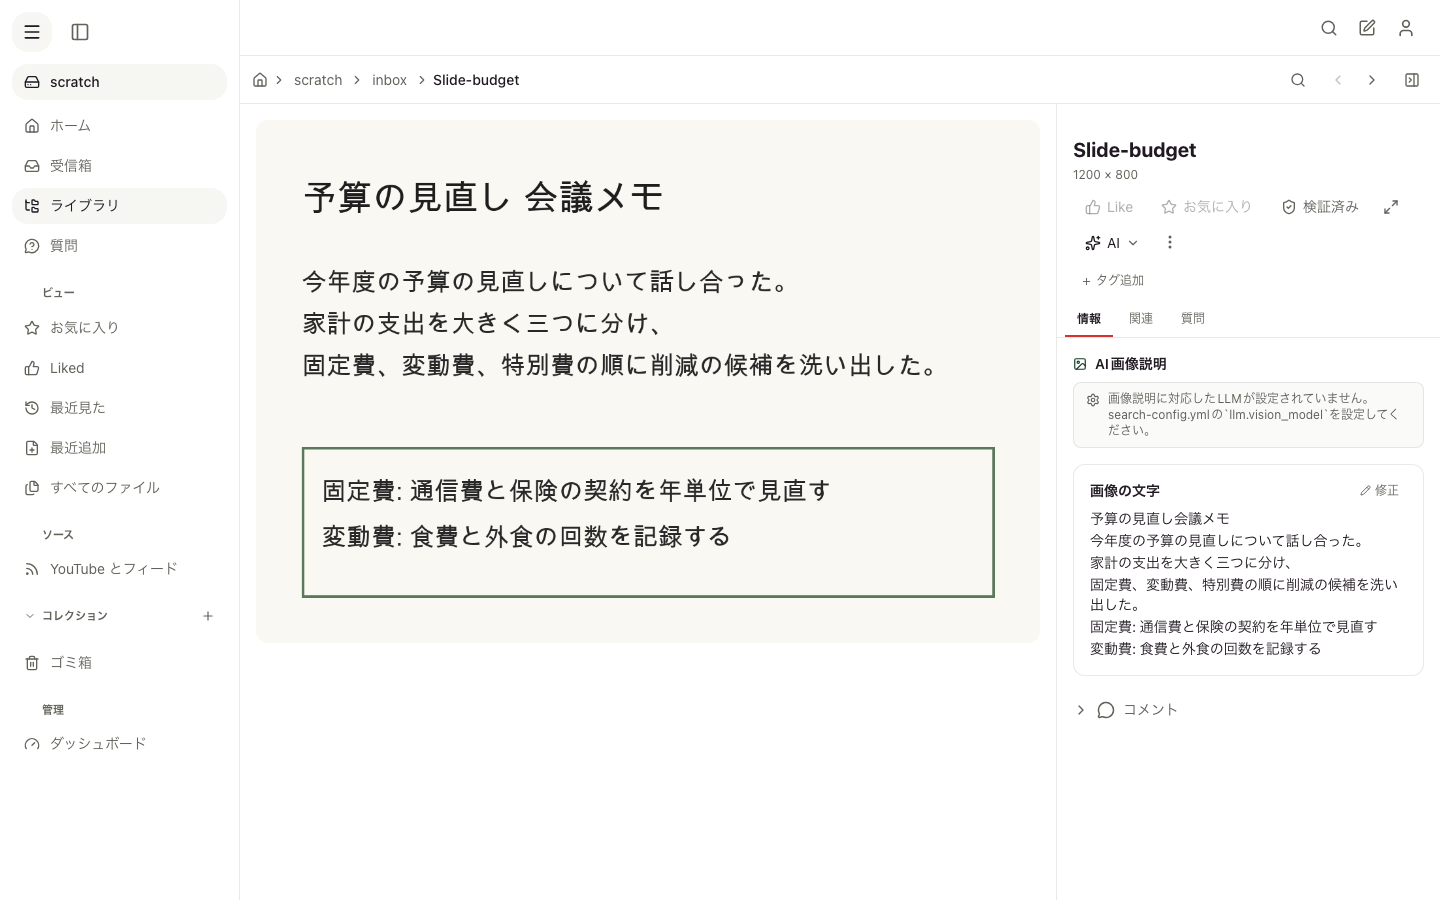
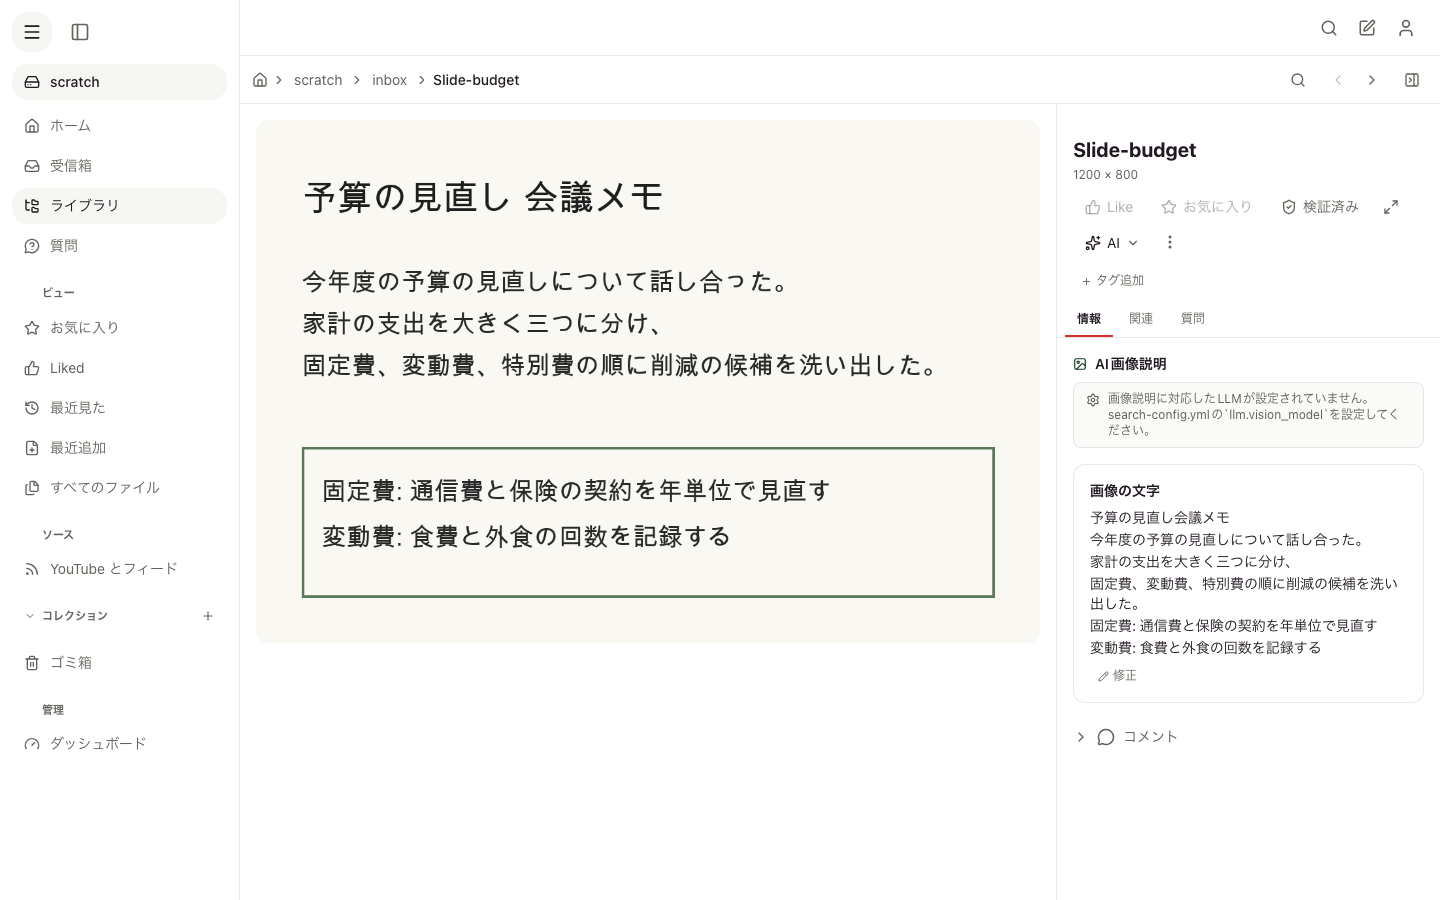
docs: record the second R-5 for the extraction corrections

Changed region(s): [[0.75, 0.56, 0.9688, 0.7467], [0.75, 0.7778, 0.7812, 0.84], [0.9375, 0.5289, 0.9688, 0.56]]

diff --git a/docs/process/reviews/feature-extraction-edits/decisions.md b/docs/process/reviews/feature-extraction-edits/decisions.md
@@ -2,87 +2,79 @@
 
 decision:
 ran_in_app: yes
-at: f30f8d0e69d075eb5e6d12f233992458661ee4e5
+at: c1679f59d862963e70d67feabba6798959a96e60
 by: agent
 evidence: |
   Environment: compose project `litloft-r5-b4` (LITLOFT_PORT=3996), own
   `.r5/override.yml`, scratch drive `scratch`, UI language ja (NEXT_LOCALE=ja).
-  The drive held `lecture.mp4`, `inbox/slide-budget.png`, `inbox/frame.png`
-  and `Litloft User Guide.pdf`. All four were indexed; Whisper transcribed
-  `lecture.mp4` (7 segments) and OCR read `slide-budget.png` (the second
-  picture had no text). Screenshots are under
-  `docs/process/reviews/feature-extraction-edits/shots/`.
+  The drive held `lecture.mp4` (whisper-small), `inbox/slide-budget.png`,
+  `inbox/frame.png`, `Litloft User Guide.pdf` and a `lecture.ja.vtt` sidecar so
+  the transcript had all three source options. Screenshots are under
+  `docs/process/reviews/feature-extraction-edits/shots/` (30-33 are this run).
 
-  1. Picture text (SPEC-ADDON-067) — PASS.
-  - `slide-budget.png` (`fzLRrskV06av`) showed a **画像の文字** section with
-    the OCR text line by line and a **修正** button (01-picture.png).
-  - **修正** opened a multi-line field holding the whole text; Cmd/Ctrl+Enter
-    saved it. The section then showed **修正済み** and the corrected word
-    (02-picture-corrected.png).
-  - Search for the new word ネット回線費 returned 1 result, the picture, with
-    the **内容一致** badge and the corrected excerpt; search for the old word
-    通信費 returned the picture only with **サムネイル** (no **内容一致**), so
-    the old text no longer matches (search-ネット回線費.png,
-    search-通信費.png).
-  - **元の結果に戻す** opened the confirmation
-    「修正をすべて取り消し、機械が出した元の結果に戻します。」 with
-    **戻す** / **キャンセル** (03-picture-restore-confirm.png); **戻す** put
-    the original 通信費 back and removed **修正済み**
-    (04-picture-restored.png). Search after that: ネット回線費 0 results,
-    通信費 with **内容一致**.
-  - The PDF page (`lLOxQjLudwZt`) had no **画像の文字** section
-    (07-pdf-no-picture-section.png).
-  - After a second correction, the intelligence container was restarted.
-    Reopening the picture showed **修正済み** and ネット回線費, not 通信費;
-    the corrected text survived the automatic startup path
-    (05-picture-after-restart.png).
-  - In インデックス詳細 (ファイル操作 → インデックス詳細), the OCR row's
-    **再生成** showed
+  Picture text (SPEC-ADDON-067) — PASS.
+  - `slide-budget.png` showed **画像の文字** with the OCR text line by line and
+    **修正**. The section's controls sit under the text, as design 3a/3c/3e.
+  - **修正** opened a multi-line field; Cmd/Ctrl+Enter saved; **修正済み**
+    appeared. The mark uses the warm-light badge, not accent-amber.
+  - Search for ネット回線費 returned the picture with **内容一致**; 通信費
+    returned it only with **サムネイル**, so the replaced text no longer
+    matches.
+  - **元の結果に戻す** opened a modal confirmation with
+    「修正をすべて取り消し、機械が出した元の結果に戻します。」 and
+    **戻す** / **キャンセル**; **戻す** restored 通信費 and removed the mark.
+  - The PDF page had no **画像の文字** section.
+  - After a second correction and an intelligence restart, the picture kept
+    **修正済み** and the corrected word; the automatic startup path did not
+    overwrite it.
+  - インデックス詳細's OCR **再生成** on the corrected picture showed
     「このファイルには手で直した箇所があります。再生成すると、修正と保存して
-    ある元の結果は消えます。」 with **続ける** / **キャンセル**
-    (06-index-details-warning.png). **キャンセル** closed it and the
-    **修正済み** mark remained.
+    ある元の結果は消えます。」; **キャンセル** left the correction in place.
+  - At 390x844 the section shows the text first and **修正** /
+    **元の結果に戻す** under it; **修正** measured 44 px high, and the edit
+    field's **保存** / **キャンセル** measured 44 px
+    (33-picture-edit-390.png, 33-picture-controls-390.png).
 
-  2. Transcript (SPEC-ADDON-070) — PASS.
-  - `lecture.mp4` (`hmH46hucQLD-`) opened the **文字起こし** tab in the
-    **分割テキスト** view; each of the 3 rows offered **修正**
-    (11-transcript-open.png).
-  - **修正** opened a single-line field. Saving chunk 0 with
-    ハロス東大 → ハロス灯台 and 東大の歴史 → 灯台の歴史 (Enter) showed
-    **修正済み** and **元の結果に戻す** in the header
-    (12-transcript-corrected.png).
-  - The follow-up's forced alignment could not produce words in this stack:
-    the log shows `align failed lang=ja (TypeError)`, so the utterance ended
-    with no word timings (the spec's no-result outcome, not a retry loop).
-    Reopening the file and fetching the player's subtitle source returned
-    the corrected utterance as one cue over its span with ハロス灯台;
-    visible caption rendering was not observed.
-  - Search for ハロス灯台 returned the video with the **音声一致** badge and
-    the corrected excerpt; ハロス東大 returned it only with **サムネイル**.
-  - **元の結果に戻す** → **戻す** restored the original text, removed
-    **修正済み**, and removed the header button (13-transcript-restored.png).
-  - Emptying a row (chunk 1) removed it: the **修正** count went 3 → 2; the
-    subsequent restore brought it back to 3 (14-transcript-emptied.png).
-
-  3. Layout — PASS for the reachable views.
-  - At 1440x900 the picture section and the transcript header stay on one
-    line without clipping (01/11/12).
-  - At 390x844 the bottom sheet shows **画像の文字** with **修正** and
-    **元の結果に戻す**, and the page has no horizontal overflow
-    (20-picture-sheet-390.png); the transcript sheet shows
-    分割テキスト / 単語 and the row **修正** without overflow
-    (21-transcript-390.png). The three-option case (分割テキスト / 単語 /
-    外部字幕) was not reachable: this video has no external subtitle track.
+  Transcript (SPEC-ADDON-070) — PASS.
+  - With `lecture.ja.vtt` beside the video, the transcript header showed
+    **分割テキスト** / **単語** / **外部字幕**. After one correction the header
+    also showed **元の結果に戻す** and **AIで整える**.
+  - At 390x844 the outer header wrapped: the toggle row stayed first and
+    **元の結果に戻す** and **AIで整える** shared the next row at the right edge
+    (same y, right edge 374 px, no horizontal overflow). This matches design
+    1c/1e/1f and the invariants' Clarification.
+  - Each line's **修正** was 44x44 on the coarse pointer; the edit mode's
+    **保存** and **キャンセル** were 44 px high. The quote button's overhang
+    started at x=326 while 修正 ended at x=324, so their touch areas do not
+    overlap (32-transcript-edit-390.png).
+  - **修正** opened a single-line field with Esc / ↵ hints; Enter saved and
+    showed **修正済み**; the mark is the warm-light badge and sits under the
+    line's text with the AI badge.
+  - Emptying a row removed it; **元の結果に戻す** restored it and removed the
+    header button. The restore/Refine confirmations are modal dialogs, and
+    Refine on a corrected file asked with
+    「このファイルには手で直した箇所があります。AIで整えると、修正後の文章も
+    書き換わります。」.
+  - Search found ハロス灯台 with **音声一致** and the corrected excerpt;
+    ハロス東大 returned the video only with **サムネイル**.
+  - The forced-alignment path could not produce words in this stack
+    (`align failed lang=ja (TypeError)`); the corrected utterance ended with
+    no word timings and the subtitle source showed it as one cue over its span.
+    Visible caption rendering was not observed.
+  - A file-switch while an edit was open could not be produced through the UI:
+    the inspector's page row exposed no next/previous-file control in this
+    view. The component test `ExtractionEditsReview.test.tsx` covers the
+    host's reused mount (rerender to the next file) and shows the field and
+    confirmation are dropped.
 
 pending: |
   - A successful WhisperX alignment of a corrected utterance: the stack's
     `aligner.align` raised `TypeError` for ja, so the no-word fallback was
-    observed instead. The revised words themselves were not produced.
-  - Refine (AIで整える): needs an LLM profile; none is configured in this
-    stack. The corrected-file confirmation and the Refine-after-alignment
-    behaviour were not exercised.
-  - The three-option transcript header layout (分割テキスト / 単語 / 外部字幕)
-    with both 元の結果に戻す and AIで整える present, per the invariants'
-    clarification: no external subtitle track existed in the scratch drive.
-  - A visible player caption after reopening; the track source (VTT) was
+    observed instead.
+  - Refine itself (AIで整える): no LLM profile is configured, so only its
+    confirmation dialog was exercised.
+  - The host's real next/previous-file navigation while editing: the control
+    was not exposed in the inspector view; the component-level rerender case
+    is covered by `ExtractionEditsReview.test.tsx`.
+  - A visibly rendered caption after reopening; the track source (VTT) was
     verified, the rendered caption was not.
